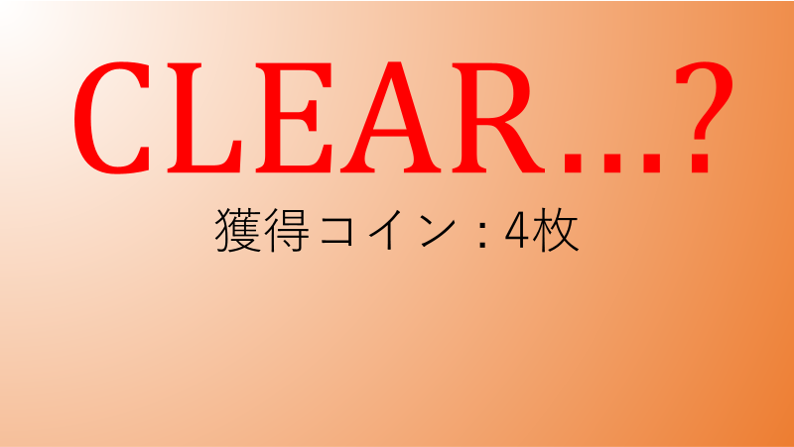
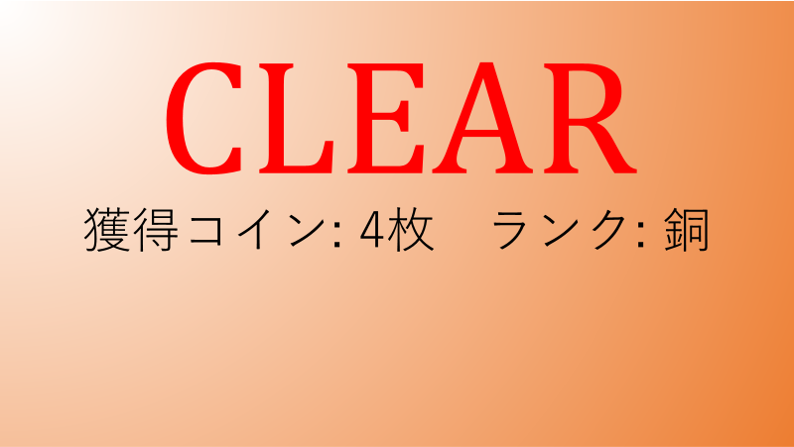
3types

diff --git a/coin.js b/coin.js
@@ -443,8 +443,6 @@ function check()
                 coinCount++;
             }
         }
-        if (coinCount == 8) clearEvt();
-        else if ((coinCount == 4 && !bronz) || coinCount == 6 && !silver)
         {
             //if (coinCount == 4) bronz = true;
             //else if (coinCount == 6) silver = true;
@@ -453,6 +451,7 @@ function check()
             clearImage = document.createElement("img");
             if (coinCount == 4) clearImage.setAttribute("src", "image/coin_clear_bronz.png");
             else if (coinCount == 6) clearImage.setAttribute("src", "image/coin_clear_silver.png");
+            else if (coinCount == 8) clearImage.setAttribute("src", "image/coin_clear_gold.png");
             clearImage.classList.add("clearImage");
             clearImage.style.top = width * 0.6;
             camera.appendChild(clearImage);
@@ -479,7 +478,7 @@ function check()
         
             let tweetImage = document.createElement("img");
             tweetImage.setAttribute("src", "image/tweet.png");
-            tweetImage.setAttribute("ontouchstart", "tweetNC(" + coinCount + ")");
+            tweetImage.setAttribute("ontouchstart", "tweet(" + coinCount + ")");
             tweetImage.classList.add("tweetImage");
             tweetImage.style.left = width * 0.57;
             tweetdiv.appendChild(tweetImage);           
@@ -525,31 +524,16 @@ function cont()
     }
 }
 
-function tweetNC(count)
+function tweet(count)
 {
     var EUC = encodeURIComponent;
     var twitter_url = "http://twitter.com/intent/tweet?text=";
     const URL = "https://toto0121.github.io/" + contentObj.name + ".html"
-    var message = contentObj.name  + "の謎を解き明かした...?\n\n獲得コイン: " + count +"枚\n";
+    var message = "見事" + contentObj.name  + "の謎を解き明かした！\n\n獲得コイン: " + count + "枚\nランク: ";
+    if (count == 4) message += "銅\n難易度 0.3\n";
+    else if (count == 6) message += "銀\n難易度1.0\n";
+    else if (count == 8) message += "金\n難易度2.0\n";
 
-    if (contentObj != undefined) message += "難易度 " + contentObj.difficulty[0] + "\n";
-    message += "#web謎解き #とと謎" + contentObj.name + " #とと謎\n" + URL;
-
-    if (navigator.userAgent.indexOf('iPhone') > 0 || navigator.userAgent.indexOf('iPad') > 0 || navigator.userAgent.indexOf('iPod') > 0 || navigator.userAgent.indexOf('Android') > 0) {
-        location.href = 'https://twitter.com/intent/tweet?text=' + EUC(message);
-    }else{
-        window.open(twitter_url + EUC(message), "_blank","top=50,left=50,width=500,height=500,scrollbars=1,location=0,menubar=0,toolbar=0,status=1,directories=0,resizable=1");
-    }
-}
-
-function tweet()
-{
-    var EUC = encodeURIComponent;
-    var twitter_url = "http://twitter.com/intent/tweet?text=";
-    const URL = "https://toto0121.github.io/" + contentObj.name + ".html"
-    var message = "見事" + contentObj.name  + "の謎を解き明かした！\n\n獲得コイン: ?枚\n";
-
-    if (contentObj != undefined) message += "難易度 " + contentObj.difficulty[0] + "\n";
     message += "#web謎解き #とと謎" + contentObj.name + " #とと謎\n" + URL;
 
     if (navigator.userAgent.indexOf('iPhone') > 0 || navigator.userAgent.indexOf('iPad') > 0 || navigator.userAgent.indexOf('iPod') > 0 || navigator.userAgent.indexOf('Android') > 0) {
@@ -560,4 +544,36 @@ function tweet()
 }
 
 init();
+
+let popup = document.createElement("div");
+popup.classList.add("popup");
+popup.style.height = width;
+popup.style.top = 0.5 * width;
+popup.style.borderSpacing = width * 0.05 + "px 10";
+
+let popupText = document.createElement("p");
+popupText.classList.add("popupText");
+popupText.innerText = "この謎は、クリア条件達成時の状況により銅・銀・金の3種類のクリアが存在します。より高いランクほど、クリアが難しくなるので頑張ってください。\n\n難易度\n銅ランク 0.3\n銀ランク 1.0\n金ランク 2.0\n\n";
+popupText.style.fontSize = width * 0.05;
+
+closeButton = document.createElement("div");
+closeButton.style.top = width * 0.85;
+closeButton.style.left = width * 0.35;
+closeButton.style.zIndex = 10000;
+closeButton.setAttribute("ontouchstart","closePopup()");
+closeButton.classList.add("menuButton");
+closeButton.style.height = width * 0.12;
+let closeButtonText = document.createElement("p");
+closeButtonText.innerText = "OK";
+closeButtonText.classList.add("menuButtonText");
+closeButton.appendChild(closeButtonText);
+
+camera.appendChild(popup);
+popup.appendChild(popupText);
+popup.appendChild(closeButton);
+
+function closePopup()
+{
+    popup.remove();
+}
 

diff --git a/coin.css b/coin.css
@@ -25,3 +25,24 @@ body{
     position: absolute;
     transition: 0.5s;
 }
+
+.popup{
+    position: absolute;
+    width: 90%;
+    left: 5%;
+    background-color: azure;
+    border: 5px solid black;
+    display: table;
+    border-collapse: separate;
+}
+
+.popupText{
+    position: relative;
+    color: black;
+    font-family: "Sawarabi Mincho";
+    text-align: center;
+    vertical-align: middle;
+    display: table-cell;
+    left: 3.5%;
+    
+}
